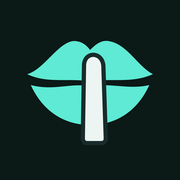
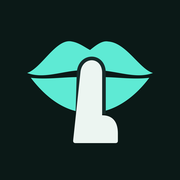
Restore draft lip curves and hand silhouette in brand artwork

diff --git a/assets/brand/export.py b/assets/brand/export.py
@@ -121,17 +121,13 @@ def android_vector(source, destination, adaptive=False):
 
 def main():
     symbol = body_of(BRAND / "symbol.svg")
-    dark_symbol = symbol.replace("#0f766e", "#5eead4").replace(
-        'fill="#5eead4" stroke=', 'fill="#ecf5f1" stroke='
-    )
+    dark_symbol = symbol.replace("#5eead4", "#ecf5f1").replace("#0f766e", "#5eead4")
     write(BRAND / "symbol-dark.svg", svg(dark_symbol))
     outlines, width = wordmark()
     for appearance, color in (("light", "#172b2a"), ("dark", "#ecf5f1")):
         content = symbol
         if appearance == "dark":
-            content = content.replace("#0f766e", "#5eead4").replace(
-                'fill="#5eead4" stroke=', 'fill="#ecf5f1" stroke='
-            )
+            content = dark_symbol
         write(
             BRAND / f"logo-{appearance}.svg",
             svg(content + f'<g fill="{color}">{outlines}</g>', f"0 0 {width:.2f} 128"),
@@ -149,7 +145,7 @@ def main():
         BRAND / "app-icon.svg",
         svg(
             '<path fill="#0b1917" d="M0 0H128V128H0Z"/>'
-            + f'<g transform="translate(9 2) scale(.86)">{symbol.replace("#0f766e", "#5eead4").replace(chr(34) + "#5eead4" + chr(34) + " stroke=", chr(34) + "#ecf5f1" + chr(34) + " stroke=")}</g>'
+            + f'<g transform="translate(9 2) scale(.86)">{dark_symbol}</g>'
         ),
     )
     web = ROOT / "web/static"

diff --git a/assets/brand/README.md b/assets/brand/README.md
@@ -1,6 +1,6 @@
 # psst.zip brand assets
 
-The symbol is a pair of softly shaped lips and a vertical finger making a shushing gesture. `symbol.svg` is the editable path master. `symbol-dark.svg` and `symbol-monochrome.svg` support dark backgrounds and monochrome launcher treatments. The horizontal lockups keep the exact **psst.zip** spelling; use the symbol alone for launcher icons and favicons.
+The symbol follows the approved draft: wide, softly curved lips and an upright index finger connected to a visible palm and curled-hand silhouette. Preserve the hand base and the gently curved mouth opening; a standalone finger reads as a tube. `symbol.svg` is the editable path master. `symbol-dark.svg` and `symbol-monochrome.svg` support dark backgrounds and monochrome launcher treatments. The horizontal lockups keep the exact **psst.zip** spelling; use the symbol alone for launcher icons and favicons.
 
 The artwork was redrawn as vector paths from the approved AI-generated concept. It contains no emoji artwork or traced raster pixels and is distributed under the repository's Apache-2.0 license. Nunito at weight 800 provides the wordmark; the unmodified variable font and its SIL Open Font License are in `fonts/`. Source: [Google Fonts / Nunito](https://github.com/google/fonts/tree/main/ofl/nunito). Outlined production exports require no installed font. Editable wordmark SVGs use live text; install the bundled Nunito font before editing them.
 
